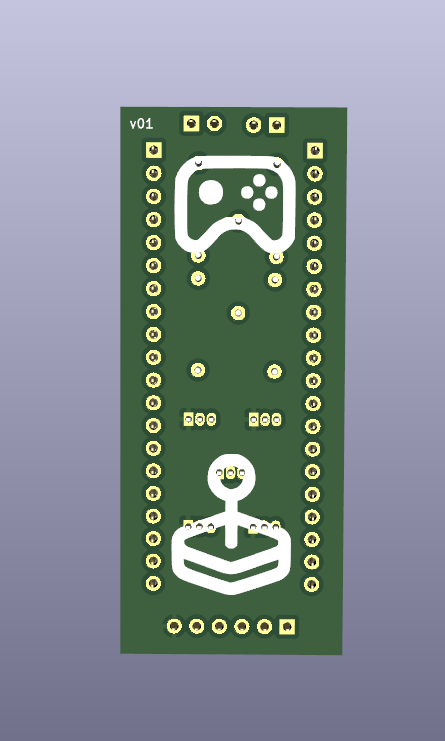
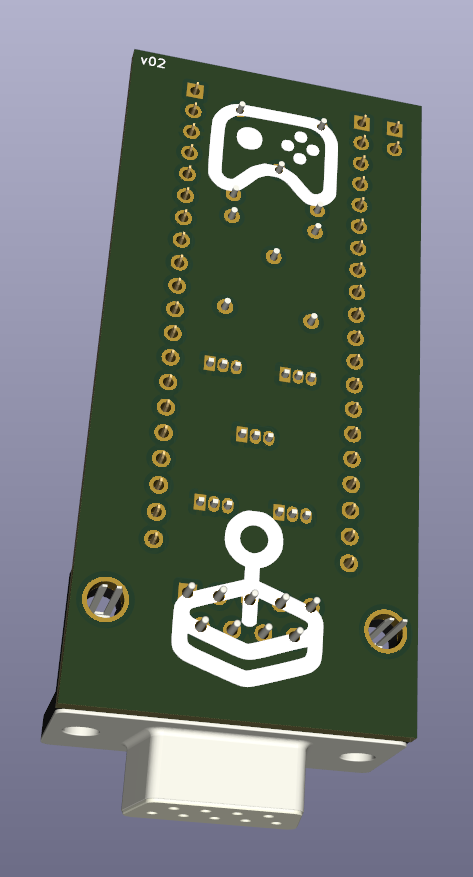
version 2, autofire, direct power

diff --git a/README.MD b/README.MD
@@ -4,6 +4,13 @@ Try and get a USB 360 controller to work on the c64
 
 xinput support is more or less copied from https://github.com/hathach/tinyusb/discussions/1929
 
+DPAD and Right analog stick can be used as joystick.
+
+A is fire.
+
+B is up/jump.
+
+X and Y are autofire.
 
 
 So far I can read (refer: device.h):
@@ -11,7 +18,7 @@ So far I can read (refer: device.h):
 - xbox 360 wired controller 
 - generic wired switch controller 
 - ps4 ds4
-- GP2040-CE ps4, xinput, arcade, gp2040, durectinput
+- GP2040-CE ps4, xinput, arcade, gp2040, directinput
 
 I cannot read but have on hand to test with:
 
@@ -95,7 +102,10 @@ USB controller is plugged directly into the Pico USB port.
 
 Thanks to this, https://www.hackster.io/DocSnyderde/connect-usb-joystick-to-commodore-c64-2fb5ba
 
-The power and joystick headers will be right angled or just solder direct.
+In the current v02 design power is taken direct from the C64 control port. This mean the USB controller is also being powered from the C64. 
+
+Do not plug in the adapter while the power is on.
+
 
 ![Board front](docs/assets/board_front.png?raw=true "Board front")
 
